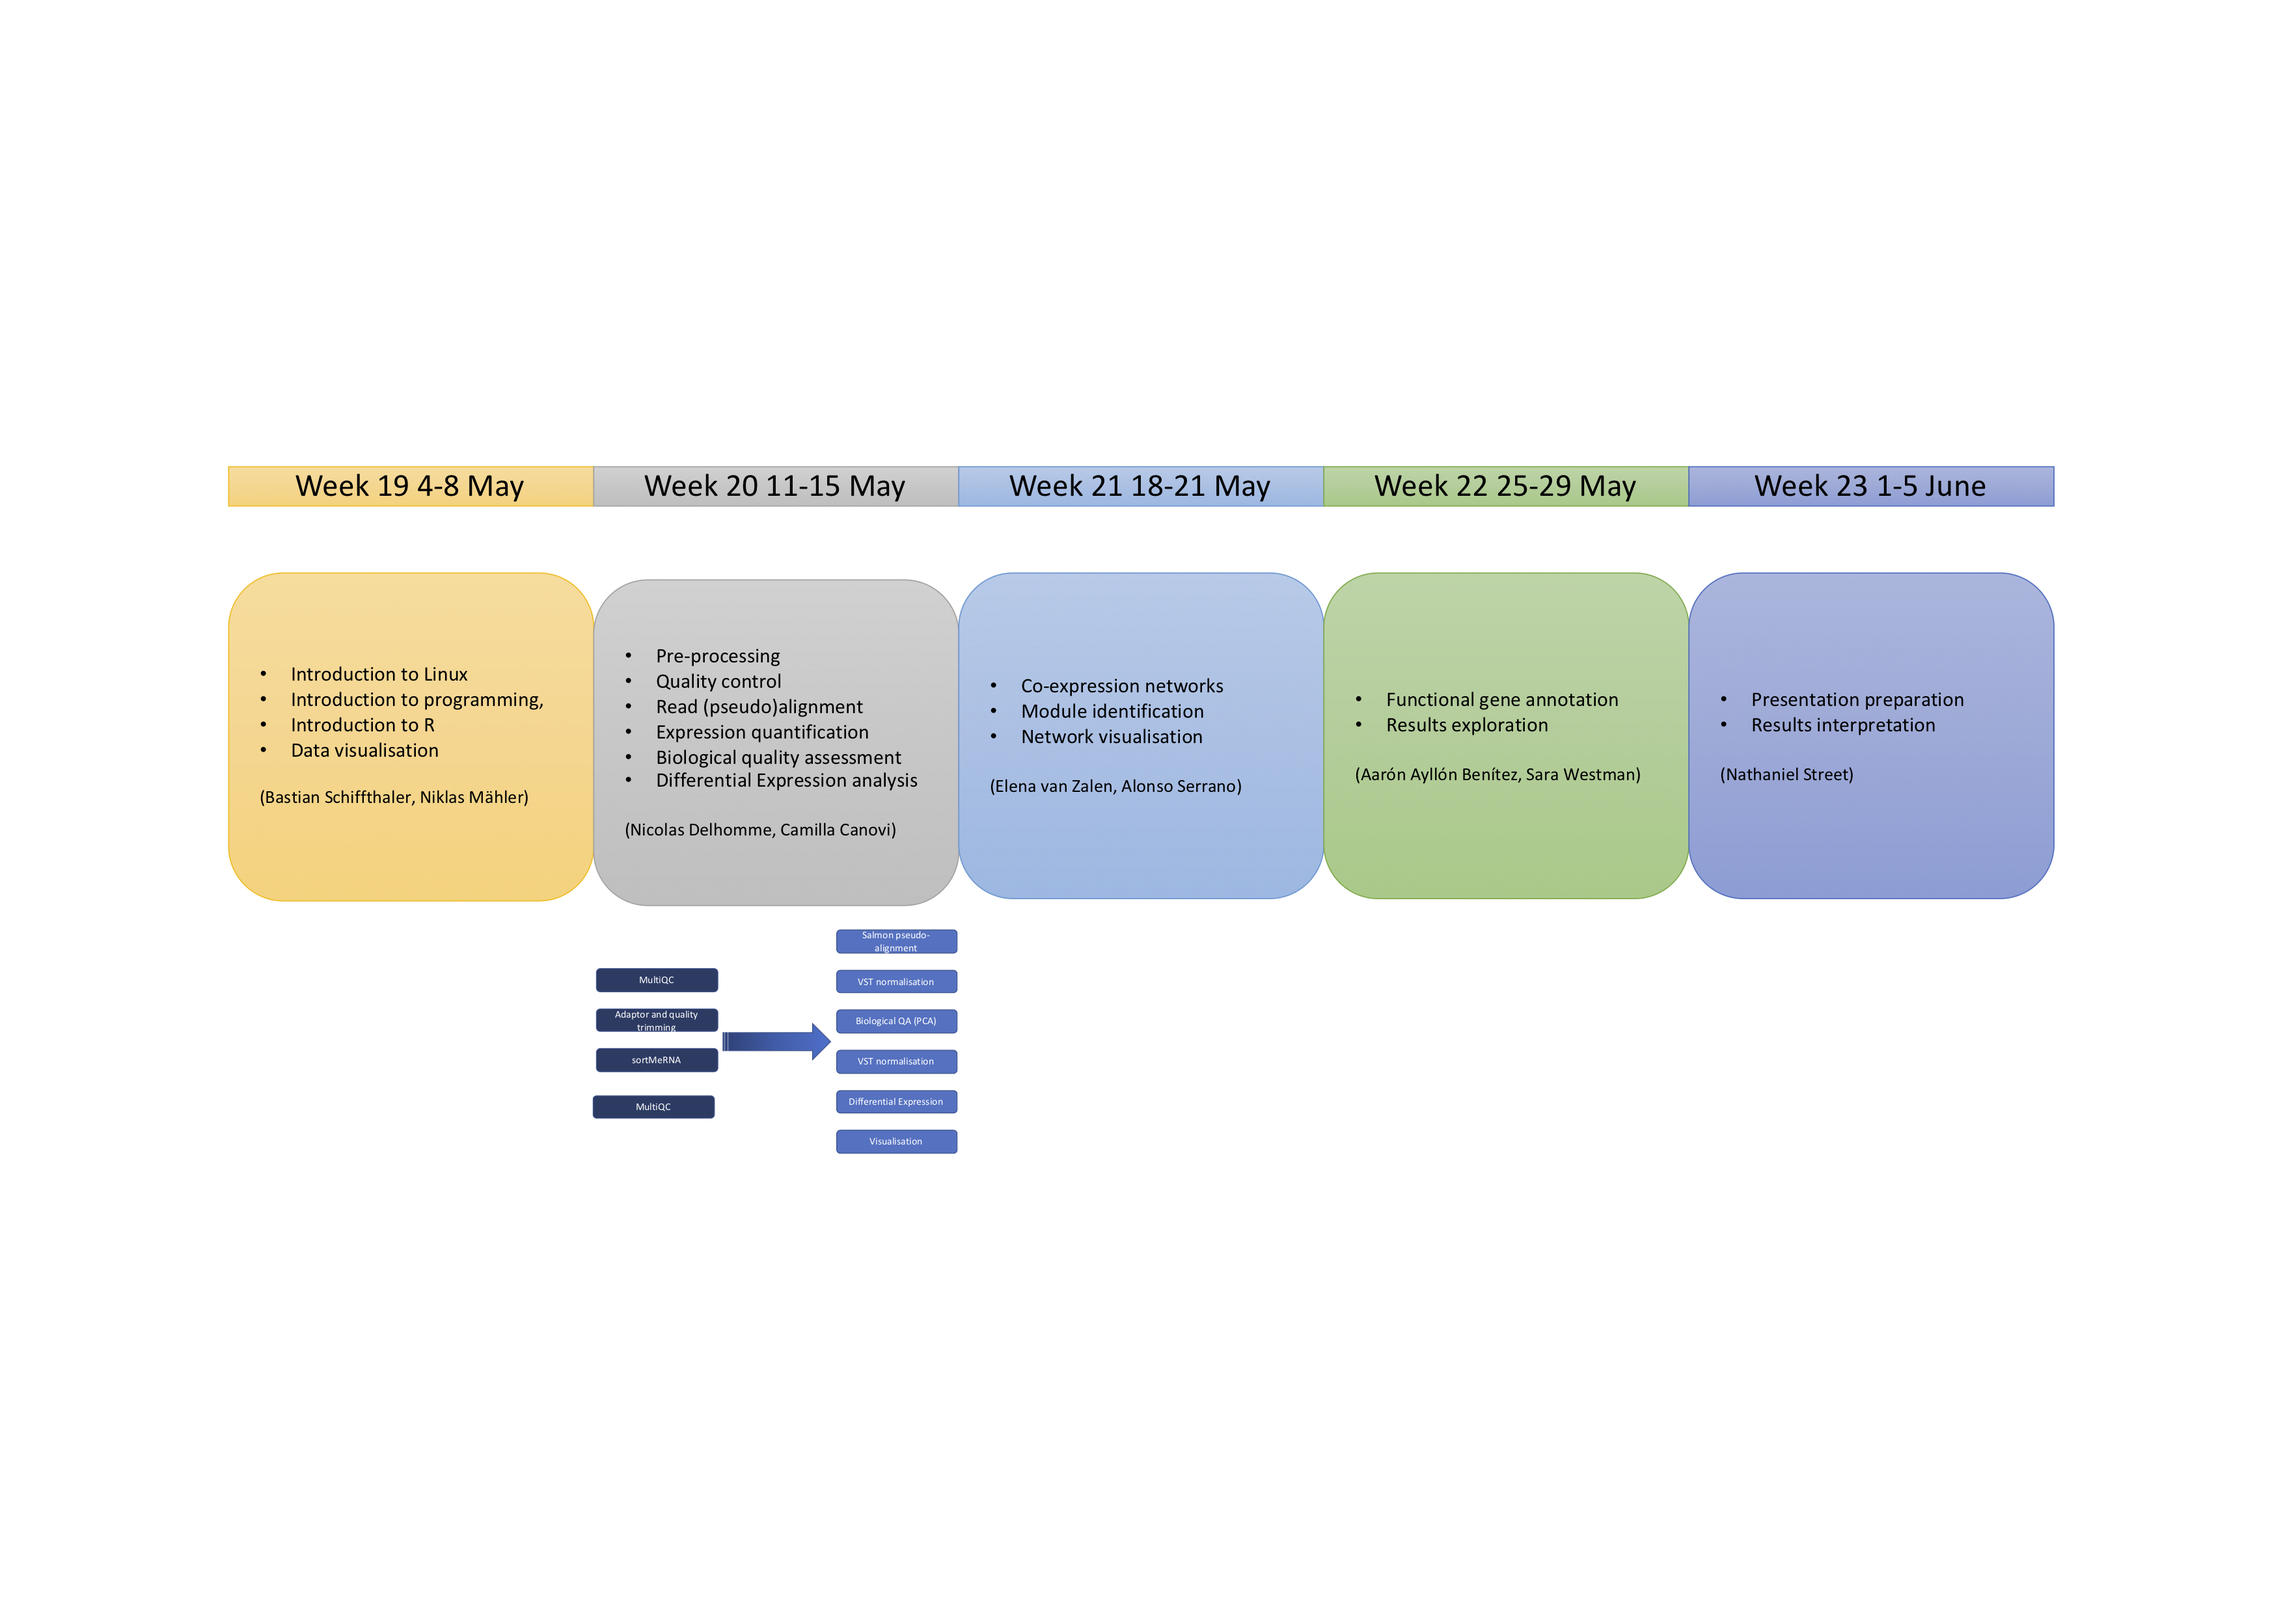
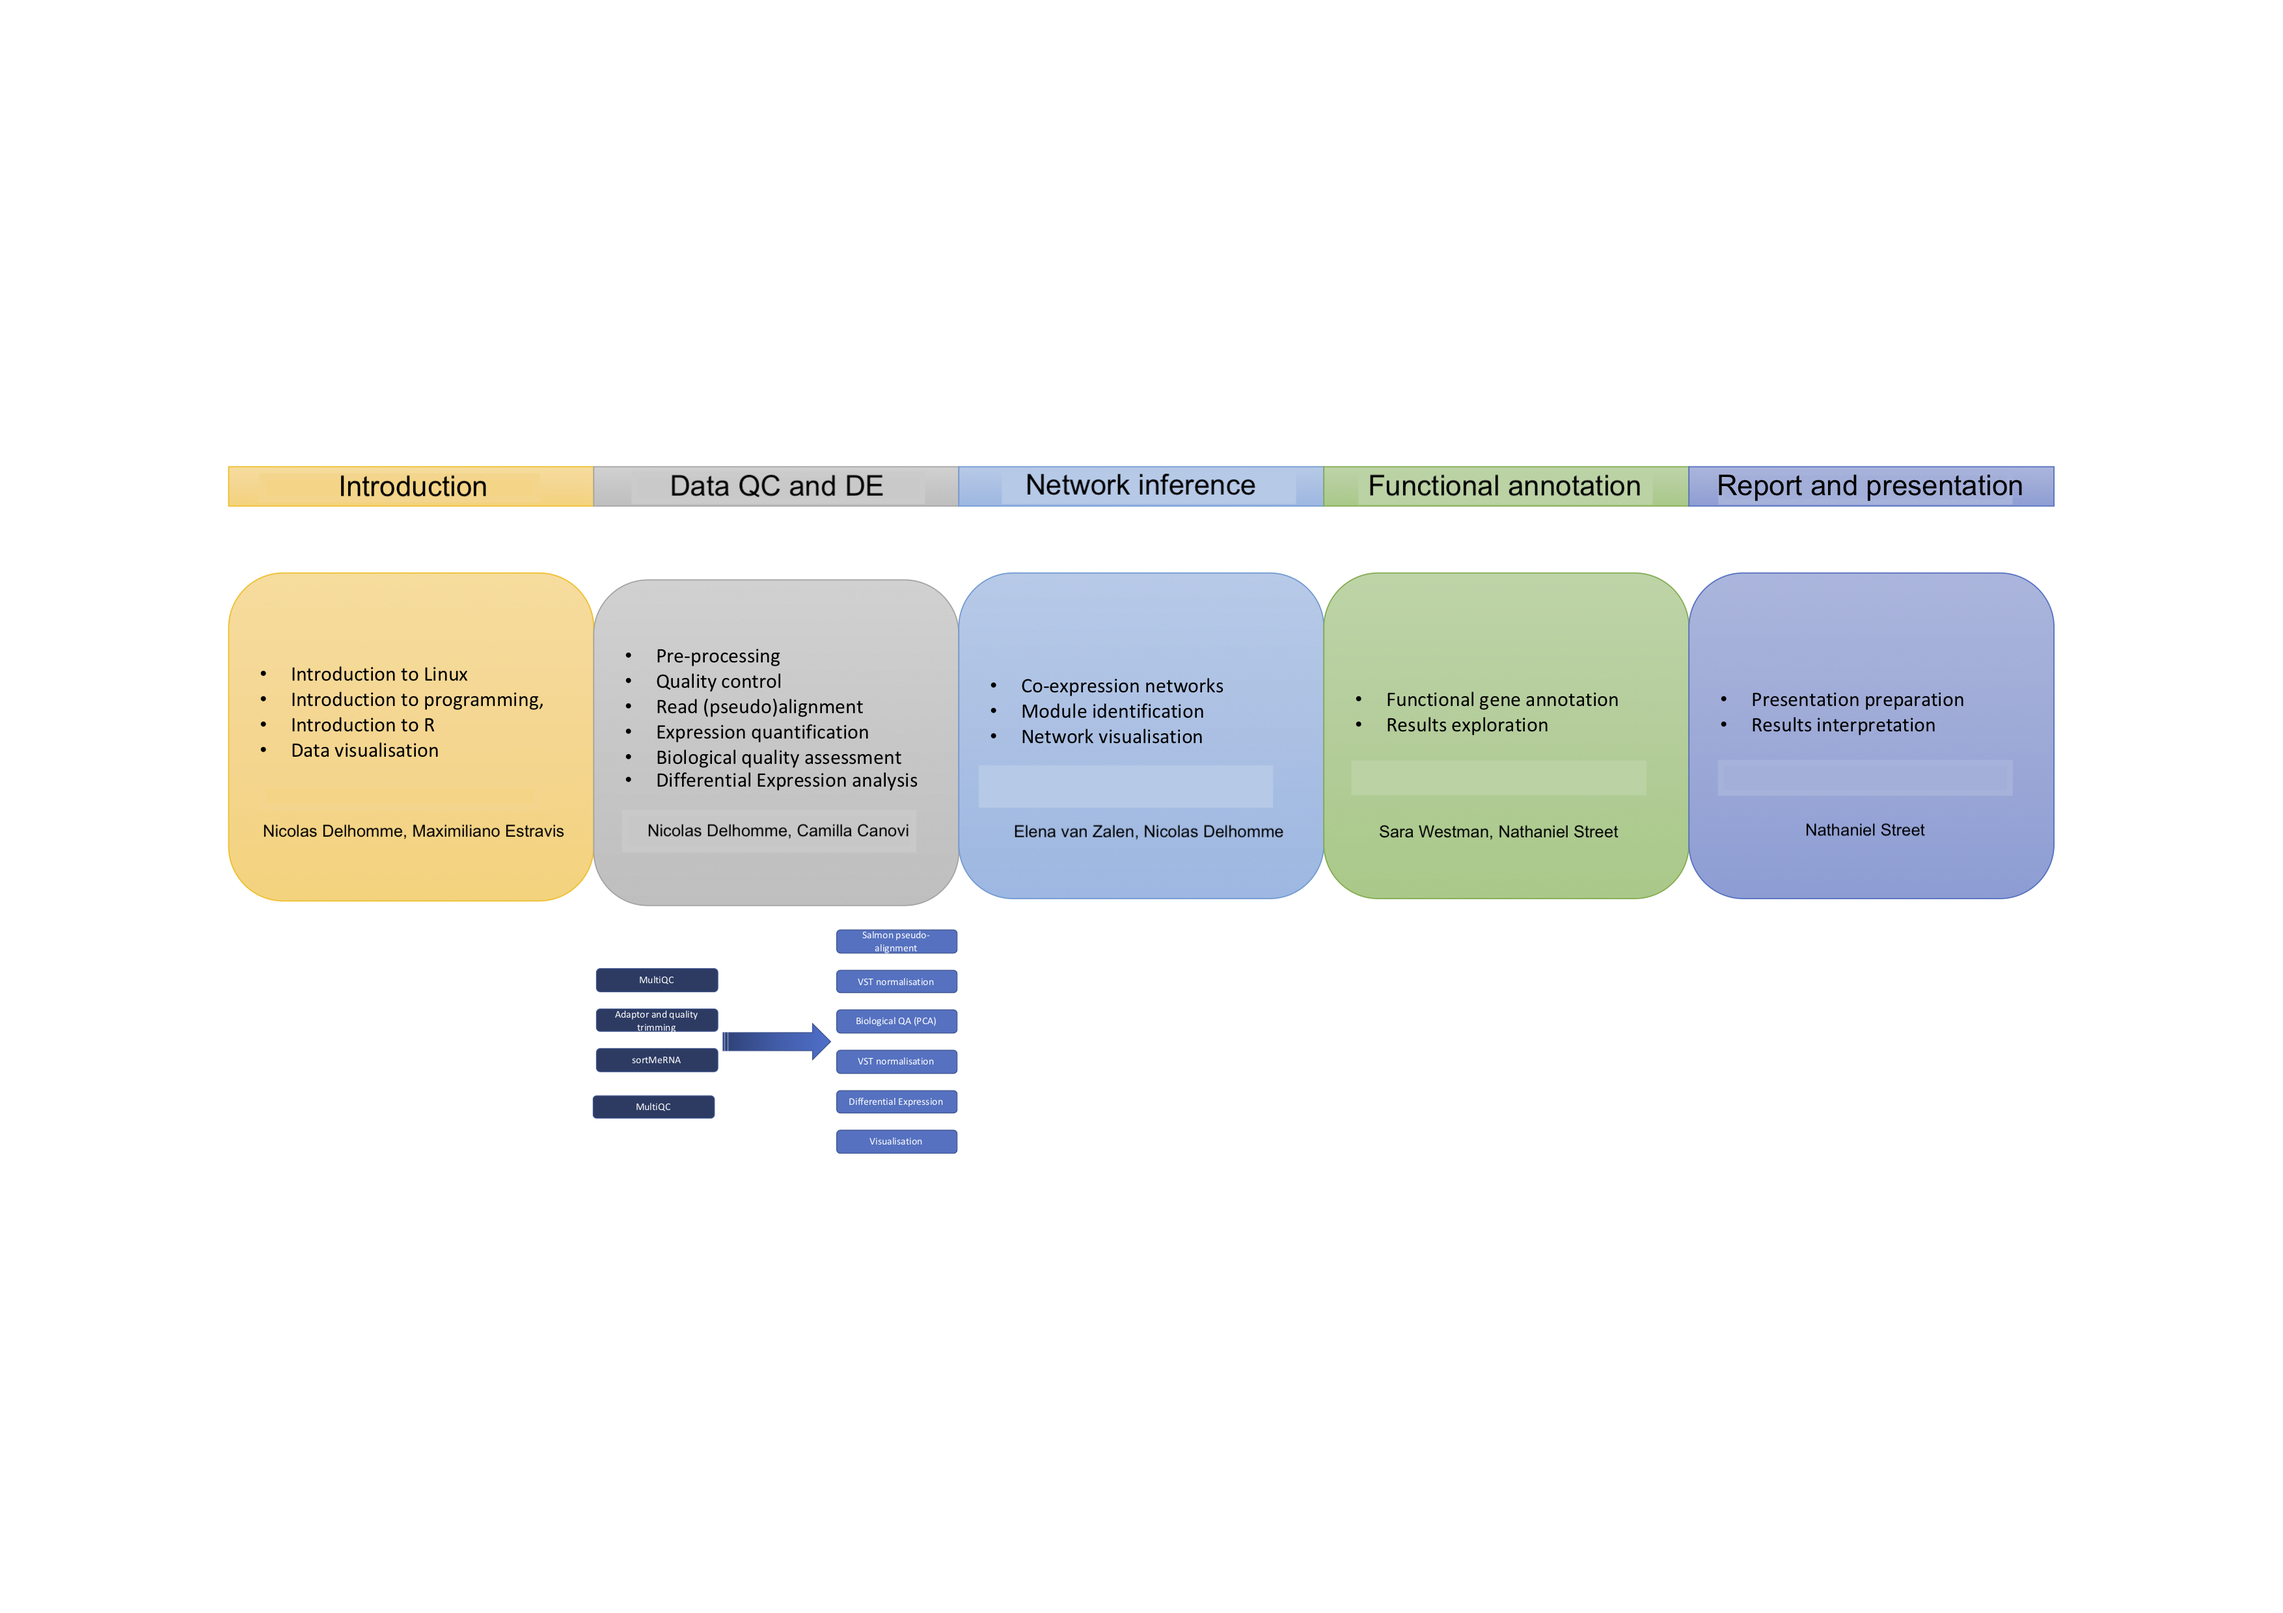
Updated the course intro

diff --git a/CourseIntro.html b/CourseIntro.html
@@ -32,7 +32,7 @@
   <body>
     <div class="reveal">
       <span class="head-slide-left" style="cursor: pointer;"> <i onclick="window.location='/fg-course'" class="fas fa-home"></i></span>
-      <span class="head-slide-right">bschiffthaler.github.io/fg-course</span>
+      <span class="head-slide-right">nicolasDelhomme.github.io/fg-course</span>
       <div class="slides">
         <section>
           <h1>Course intro</h1>
@@ -48,9 +48,9 @@
         <section>
           <h3>Format</h3>
           <ul>
-            <li class="fragment">Five weeks, each with a different focus</li>
-            <li class="fragment">Each week will carry the analysis into the next stage</li>
-            <li class="fragment">Two main teachers per week, but most of us aim to be on Teams as much as possible</li>
+            <li class="fragment">Five weeks in total, with a continuous build-up of the analysis</li>
+            <li class="fragment">Approximately, each week will carry the analysis into the next stage</li>
+            <li class="fragment">Two main teachers per week, but most of us will be available on Teams throughout</li>
             <li class="fragment">All announcements in Cambro</li>
             <li class="fragment">Other communication in Teams</li>
           </ul>
@@ -59,10 +59,10 @@
           <img class="stretch" data-src="img/Presentation2.png"></img>
         </section>
         <section>
-          <p>My week</p>
+          <p>The introduction</p>
           <ul>
-            <li class="fragment">09:00 - 12:00    Interactive Lectures</li>
-            <li class="fragment">13:00 - 16:00    Exercises (self-study)</li>
+            <li class="fragment">09:00 - 10:00    Interactive Lectures / Revision sessions</li>
+            <li class="fragment">10:00 - 16:00    Exercises (self-study)</li>
           </ul>
         </section>
         <section>
@@ -70,13 +70,13 @@
           <ul>
             <li class="fragment">One assessment per week (max 5 short questions). Graded pass/fail and all must be passed.</li>
             <li class="fragment">One final presentation, two groups at a time. Graded VG/G/U. Each teacher watching as well as the other group will grade the presentation and the grade will be a consensus of the two grades.</li>
-            <li class="fragment">Grading criteria: Technical accuracy, presentation visuals, oral presentation</li>
+            <li class="fragment">Grading criteria: Technical accuracy, presentation visuals, oral presentation - NOT on the analysis results(!)</li>
           </ul>
         </section>
         <section>
           <h3>Contact</h3>
           <li class="fragment"> <em>Course organization</em>: <a href="mailto:nathaniel.street@umu.se"> Nat </a> </li>
-          <li class="fragment"> <em>Technical issues</em>: <a href="mailto:bastian.schiffthaler@umu.se"> Me (Bastian)</a>, <a href="mailto:nicolas.delhomme@slu.se"> Nico </a> </li>
+          <li class="fragment"> <em>Technical issues</em>: <a href="mailto:nicolas.delhomme@slu.se"> Nico </a> </li>
         </section>
       </div>
     </div>

diff --git a/ssh_command.html b/ssh_command.html
@@ -40,12 +40,18 @@
             ssh -p 90XX CAS_ID@franklin.upsc.se
           </code>
         </pre>
-        Replace <b>XX</b> and <b>CAS_ID</b> by your Port number (communicated in Canvas) and your <b>CAS_ID</b>. The password has also been communicated in Canvas.
+        Replace <b>XX</b> and <b>CAS_ID</b> by your PORT number (communicated in Canvas) and your <b>CAS_ID</b>. 
+        <br/>
+        The password has also been communicated in Canvas.
         <hr/>
         <p>
-          You can also use the <a href='https://franklin.upsc.se:120XX'> Web Terminal </a>
+          You can also use the Web Terminal at https://franklin.upsc.se:120XX
           <br/>
-          Or VS-code - see the instructions in Canvas
+          Replace <b>XX</b> by your PORT number (communicated in Canvas)
+        </p>
+        <hr/>
+        <p>
+          Or use VS-code - see the instructions in Canvas (<b>PREFERRED</b>)
         </p>
       </section>
     </div>
